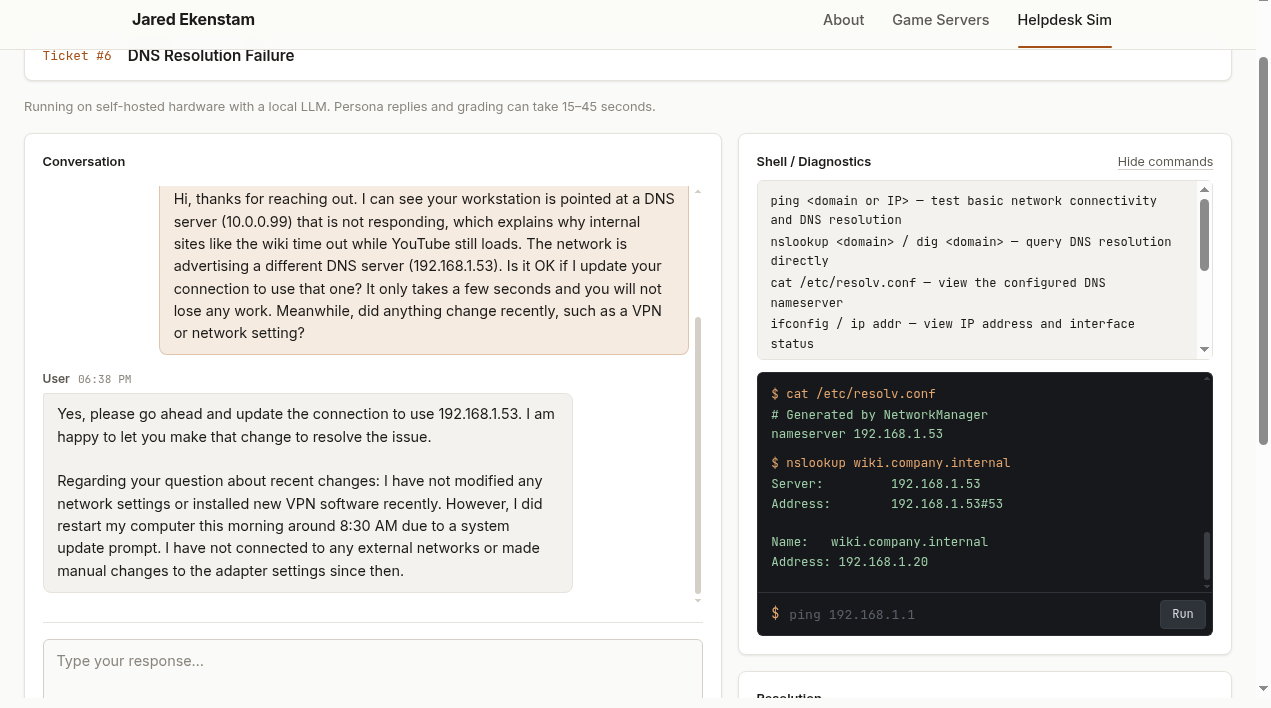
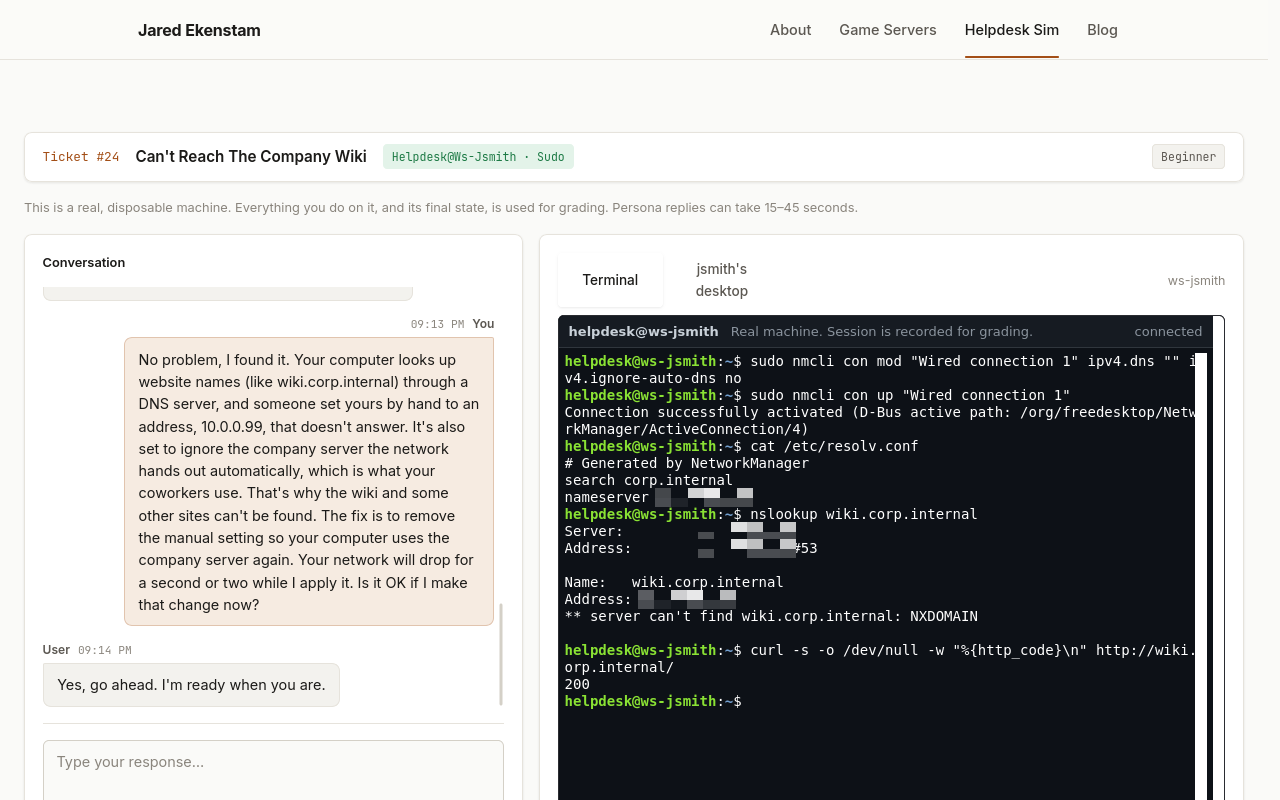
Blog: refresh helpdesk post for the live-machine lab
Re-worked the DNS ticket end to end on the lab-backed scenario
(dns-override, real workstation) and replaced all screenshots. Text now
covers the nine-scenario catalog, the lab machine and user-desktop tab,
the six-item rubric with change safety, machine checks and debrief, and
the 98/100 result. New figure 04b shows the user's desktop with the wiki
loaded. Lab addresses and the per-session admin password are blurred.

diff --git a/src/blog/helpdeskSimulator.js b/src/blog/helpdeskSimulator.js
@@ -31,12 +31,14 @@ function HelpdeskSimulatorPost() {
             <h2>Picking a scenario</h2>
             <p>
                 Each scenario is a common tier-1 problem: a locked-out account, a full disk, a DNS failure, a
-                mapped drive that won't connect, an offline printer, a crashed web service, a laptop on the
-                wrong Wi-Fi. The card states the symptom the user would report and nothing else, so you start
-                where a real technician starts.
+                web app broken by a bad release, a stuck print queue, a Documents folder the user can't save
+                to, an expired VPN password, a mapped drive that won't connect, a laptop on the wrong Wi-Fi.
+                Six of the nine run on a real, disposable Linux machine with the fault actually injected; the
+                other three still use a scripted shell. The card states the symptom the user would report and
+                what access you get, and nothing about the cause, so you start where a real technician starts.
             </p>
-            <Figure src="01-scenarios.png" alt="The simulator's start page: a four-step how-to and a grid of scenario cards">
-                The start page. The cards give the symptom, never the cause.
+            <Figure src="01-scenarios.png" alt="Scenario cards tagged Live Machine or Simulated Shell, with the company-wiki scenario selected">
+                The scenario list. The cards give the symptom and your access, never the cause.
             </Figure>
 
             <h2>The ticket arrives</h2>
@@ -46,61 +48,85 @@ function HelpdeskSimulatorPost() {
                 then writes the opening ticket in that person's voice. The same problem can come from a terse
                 engineer or from someone who just wants their wiki back and doesn't care why.
             </p>
-            <Figure src="02-opening-ticket.png" alt="The opening message from the simulated user, with the empty shell and resolution panels beside it">
-                The DNS scenario's opening message. The shell is empty and the resolution panel is waiting.
+            <p>
+                While the persona writes, the lab builds the machine: it clones a clean workstation, injects
+                the fault, and hands you a terminal on it and a view of the user's screen. For this ticket
+                that took about 50 seconds.
+            </p>
+            <Figure src="02-opening-ticket.png" alt="The opening message from the simulated user beside an empty terminal on the workstation ws-jsmith">
+                The DNS scenario's opening message. The terminal on the right is a real shell on the user's
+                workstation, still empty.
             </Figure>
 
             <h2>Investigating</h2>
             <p>
-                The shell panel takes real diagnostic commands. In this ticket a reasonable order is:
-                check <code>/etc/resolv.conf</code>, try <code>nslookup</code> against the wiki, then look at
-                the NetworkManager profile with <code>nmcli con show</code>. That shows the cause. Someone
-                hard-coded a DNS server (<code>10.0.0.99</code>) that no longer answers, while DHCP offers the
-                correct corporate one (<code>192.168.1.53</code>).
+                The terminal is a real shell, logged in as a technician account with sudo, so any command
+                works. In this ticket a reasonable order is: check <code>/etc/resolv.conf</code>, try{' '}
+                <code>nslookup</code> against the wiki, then look at the NetworkManager profile with{' '}
+                <code>nmcli con show</code>. That shows the cause. Someone hard-coded a DNS server
+                (<code>10.0.0.99</code>) that doesn't answer and told the profile to ignore the corporate
+                one that DHCP offers.
             </p>
             <p>
                 The conversation runs alongside. You can ask the user questions, and they answer in
-                character. Here the technician explains the problem in plain language, asks permission before
-                changing anything, and asks whether anything changed recently.
+                character. Here the technician asks what the contractor worked on, explains the problem in
+                plain language, and asks permission before changing anything, since the fix briefly drops the
+                network.
             </p>
-            <Figure src="03-diagnosis.png" alt="Technician's reply explaining the DNS problem, the user's answer, and nmcli output showing the manual DNS override">
-                Left: the explanation and the user's reply. Right: <code>nmcli</code> shows the manual
-                override and the DHCP-offered server.
+            <Figure src="03-diagnosis.png" alt="Technician's reply explaining the DNS problem, the user's go-ahead, and terminal output showing the manual DNS override">
+                Left: the explanation and the user's go-ahead. Right: <code>nslookup</code> can't reach the
+                configured server, and <code>nmcli</code> shows the manual override and the server DHCP
+                offers. Lab addresses are blurred.
             </Figure>
 
             <h2>Fixing and verifying</h2>
             <p>
-                The fix is two commands: point the profile at the right server, then reapply it. The shell
-                reacts to what you've done, so after the change <code>resolv.conf</code> shows the new
-                server and <code>nslookup</code> resolves the wiki. Checking the result is part of the job,
-                and the grader looks for it.
+                The fix is two commands: clear the manual server and stop ignoring DHCP's, then reapply the
+                profile. Nothing is scripted on a live machine, so after the change{' '}
+                <code>resolv.conf</code> really does list the corporate server, <code>nslookup</code>{' '}
+                resolves the wiki, and the wiki answers over HTTP. Checking the result is part of the job, and
+                the grader looks for it.
             </p>
-            <Figure src="04-fix.png" alt="Shell output after the fix: resolv.conf shows 192.168.1.53 and nslookup resolves wiki.company.internal">
-                After <code>nmcli con mod</code> and <code>nmcli con up</code>, the wiki resolves.
+            <Figure src="04-fix.png" alt="Terminal output after the fix: resolv.conf lists the corporate DNS server, nslookup resolves wiki.corp.internal and curl gets HTTP 200">
+                After <code>nmcli con mod</code> and <code>nmcli con up</code>, the wiki resolves and loads.
+            </Figure>
+            <p>
+                Then you ask the user to try again. The persona doesn't take your word for it: before each
+                reply, the lab checks what the user would actually see on the machine, so they only report
+                the wiki working once it does. You can look for yourself in the second tab, which shows the
+                user's desktop.
+            </p>
+            <Figure src="04b-user-desktop.png" alt="The user's desktop in the second console tab, with the Corp Wiki open in Firefox, and the user confirming in the conversation that it loads">
+                The user's screen with the wiki open, and their confirmation on the left.
             </Figure>
 
             <h2>Closing and grading</h2>
             <p>
                 To finish, you either close the ticket or escalate it to a named team, and write resolution
                 notes. Escalating is not a failure. Some scenarios are built so that escalating with good notes
-                is the best answer. Then a second model reads the whole session (conversation, commands, timing
-                and notes) and scores five areas: diagnostic accuracy, diagnostic efficiency, escalation
-                judgment, response timeliness and customer service.
+                is the best answer. On a live machine, the lab first measures it: did the fault's checks go
+                from failing to passing, and did anything that worked before break? That decides the outcome.
+                Then a second model reads the whole session (conversation, the terminal transcript, timing,
+                notes and the machine's evidence) and scores six areas: diagnostic accuracy, diagnostic
+                efficiency, escalation judgment, change safety, response timeliness and customer service.
             </p>
-            <Figure src="05-grade.png" alt="Grading report: 100 out of 100, five rubric items at 10 out of 10, and written feedback">
-                The grading report for this session.
+            <Figure src="05-grade.png" alt="Grading report: 98 out of 100, six rubric items, written feedback, the machine's checks marked fixed or OK, and an explanation of the fault">
+                The grading report for this session, with the machine's before-and-after checks and a
+                debrief of what was actually wrong. Lab addresses are blurred.
             </Figure>
             <p>
-                One caveat about that perfect score. The session was worked by an AI agent I use for browser
-                testing, which also took these screenshots. It never checked back with the user after the fix,
-                and its notes said the user had "confirmed the change," when the user had only given
+                This session was worked by an AI agent I use for browser testing, which also took these
+                screenshots. It lost one point, on efficiency, for not pinging the gateway to rule out routing
+                before settling on DNS. The first version of this post had a perfect score from the same kind
+                of agent, and that one wasn't deserved. The agent never checked back with the user after the
+                fix, and its notes said the user had "confirmed the change," when the user had only given
                 permission. The grader still gave 10/10 for customer service. It was running on the same small,
                 fast model as the personas, and it was too generous.
             </p>
             <p>
                 Since then I've moved grading to a larger model and had the agent work deliberately flawed
-                tickets: a made-up fix, a lazy escalation, a rude but correct fix, and a repeat of the session
-                above. The larger model caught the made-up fix and the rude replies. On the repeat it noticed
+                tickets: a made-up fix, a lazy escalation, a rude but correct fix, and a repeat of that first
+                session. The larger model caught the made-up fix and the rude replies. On the repeat it noticed
                 the false claim but still barely took points off, so the grader now also answers whether the
                 notes invent anything, and the code caps the score when they do. It does the same when the
                 user is never told the problem is fixed. The model is good at noticing; the rules about how
@@ -110,16 +136,17 @@ function HelpdeskSimulatorPost() {
             <h2>Under the hood</h2>
             <ul>
                 <li>
-                    <strong>Scenarios are YAML files.</strong> Each one describes the fault, the system's state
-                    (hostnames, addresses, the bad and good values), and every command the shell understands.
-                    Commands are regex-matched, return realistic output, and can record a "discovery". Once the
-                    right discoveries exist, later commands return different output. That's how the shell
-                    shows the fix taking effect.
+                    <strong>Scenarios are YAML files.</strong> A lab scenario names the machine template, the
+                    fault to inject, the ticket and the persona's facts, and the checks that decide whether
+                    it's fixed, plus guard checks that catch collateral damage like a broken sudoers file. The
+                    three scripted scenarios instead describe every command the shell understands. Those
+                    commands are regex-matched, return realistic output, and can record a "discovery" that
+                    changes what later commands return.
                 </li>
                 <li>
                     <strong>Tickets live in Zammad</strong>, a self-hosted ticketing system, so each session is
                     a real ticket thread. A Flask service creates the tickets, posts replies from
-                    the persona, and handles the shell and grading.
+                    the persona, requests machines from the lab, and handles grading.
                 </li>
                 <li>
                     <strong>The models run locally</strong> on the same server through an OpenAI-compatible API.
@@ -133,9 +160,11 @@ function HelpdeskSimulatorPost() {
                     hear about it.
                 </li>
                 <li>
-                    <strong>Real machines are the next step.</strong> I'm building a lab where each session gets
-                    a disposable Linux container with the fault injected for real. The grade would then be
-                    based on the machine's actual state before and after your session, not on scripted output.
+                    <strong>The machines come from a separate lab.</strong> It runs nested containers on the
+                    same server, on an isolated fake company network with its own DNS, wiki and print server.
+                    Each session clones a frozen Debian template, injects the fault and serves a browser
+                    terminal and, for desktop tickets, the user's screen over VNC. The clone is destroyed when
+                    you submit, or after 45 idle minutes.
                 </li>
             </ul>
 

diff --git a/src/blog/posts.js b/src/blog/posts.js
@@ -19,7 +19,7 @@ export const posts = [
         title: 'Building an AI help desk simulator on my home server',
         date: '2026-11-03T12:00:00',
         tags: ['project', 'homelab', 'it-concepts'],
-        summary: 'A walkthrough of one complete ticket: an AI-played user, a shell to diagnose a DNS fault, '
+        summary: 'A walkthrough of one complete ticket: an AI-played user, a real workstation with a DNS fault, '
             + 'and a local model that grades the work. Plus what runs underneath.',
         body: HelpdeskSimulatorPost,
     },
